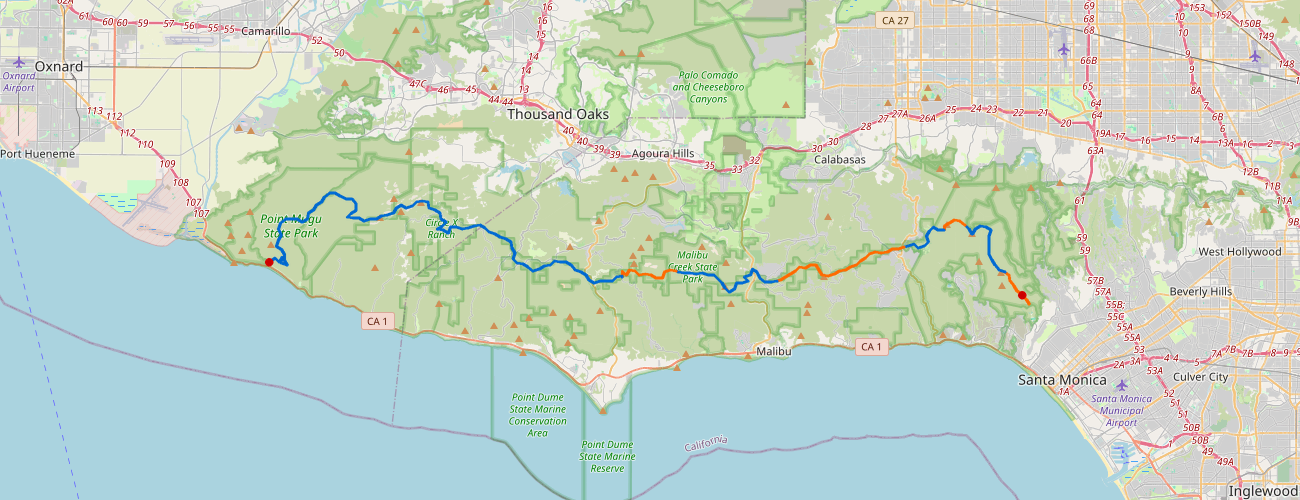
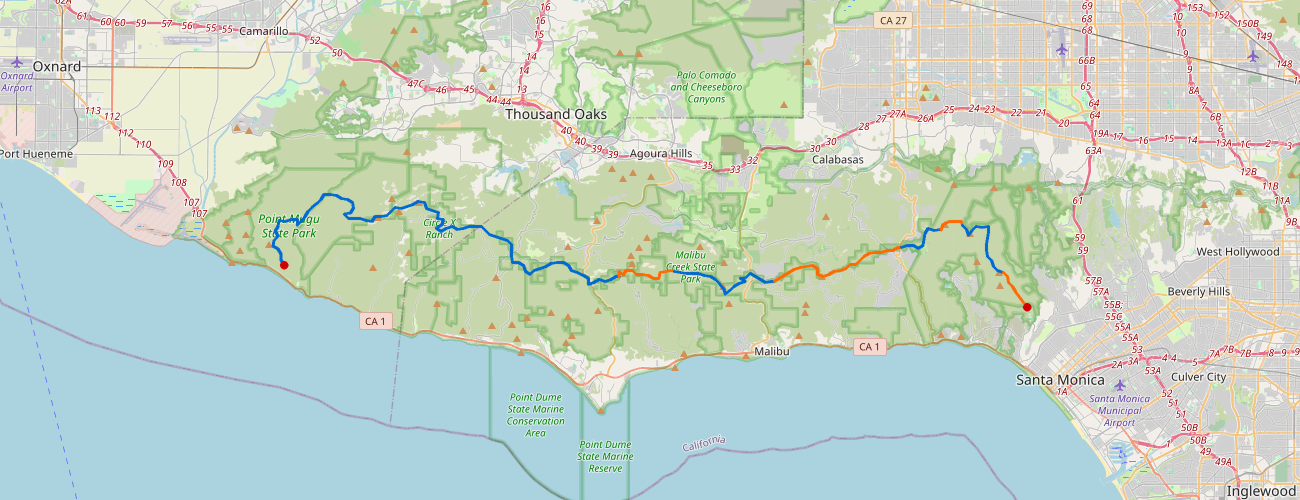
Fix overview map terminus markers extending past the trailheads
The overview rendered the full raw OSM relation route, which continues
past both Ray Miller TH and Will Rogers SHP into connector trail not
part of the 8 defined segments. This left the line (and by extension
the area around the terminus markers) visibly overshooting the red
dots at both ends. Trim to the same Ray Miller <-> Will Rogers extent
used by the 8 segments before rendering.

diff --git a/tools/bbt/generate_maps.py b/tools/bbt/generate_maps.py
@@ -271,8 +271,15 @@ def main():
     print(f"Segments: {len(segments)}")
 
     # --- Overview ---
+    # Trim to the official Ray Miller TH <-> Will Rogers SHP extent — the raw
+    # OSM relation continues past both ends into connector trail that isn't
+    # part of the 8 defined segments, which left the overview's line and
+    # terminus markers extending past the true trailheads.
     print("\nRendering overview...")
-    overview_lines = coverage_lines(bbt, all_gpx)
+    # Each segment slice is internally ordered east->west; reverse each one
+    # so consecutive segments chain start-to-end into one continuous line.
+    bbt_trimmed = [pt for seg in segments for pt in reversed(seg)]
+    overview_lines = coverage_lines(bbt_trimmed, all_gpx)
     render_map(overview_lines, OUT_DIR / "00-overview.png", width=1300, height=500)
 
     # --- Per-segment ---